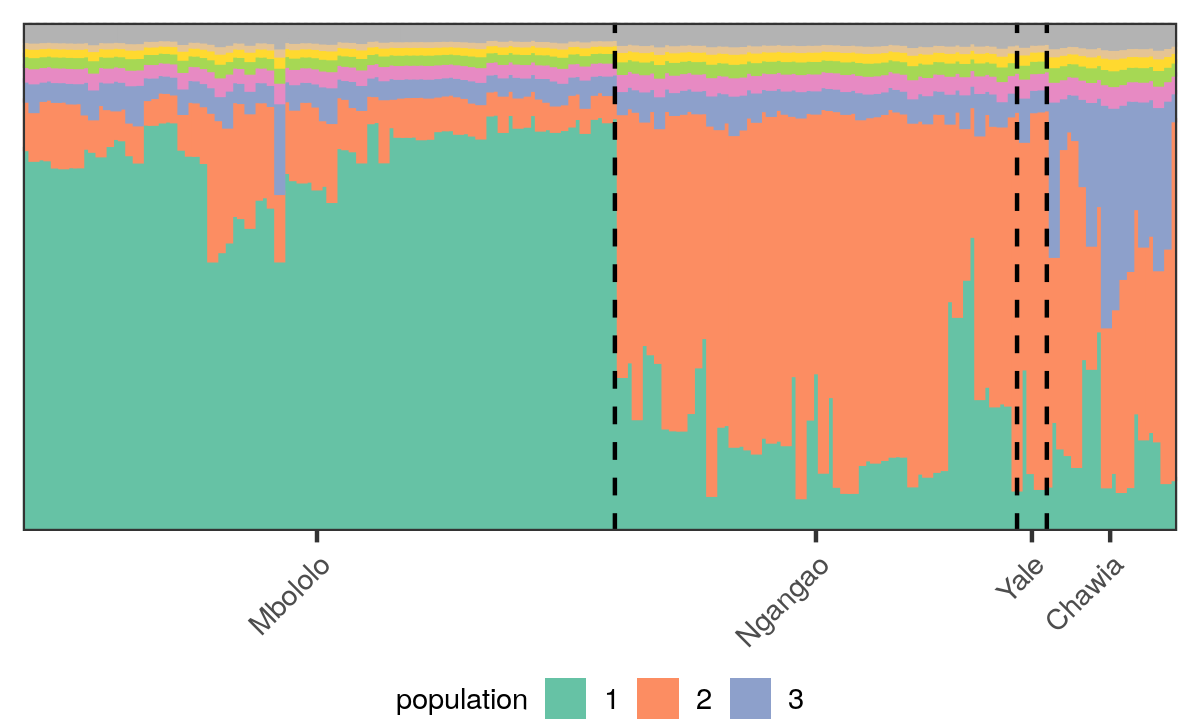
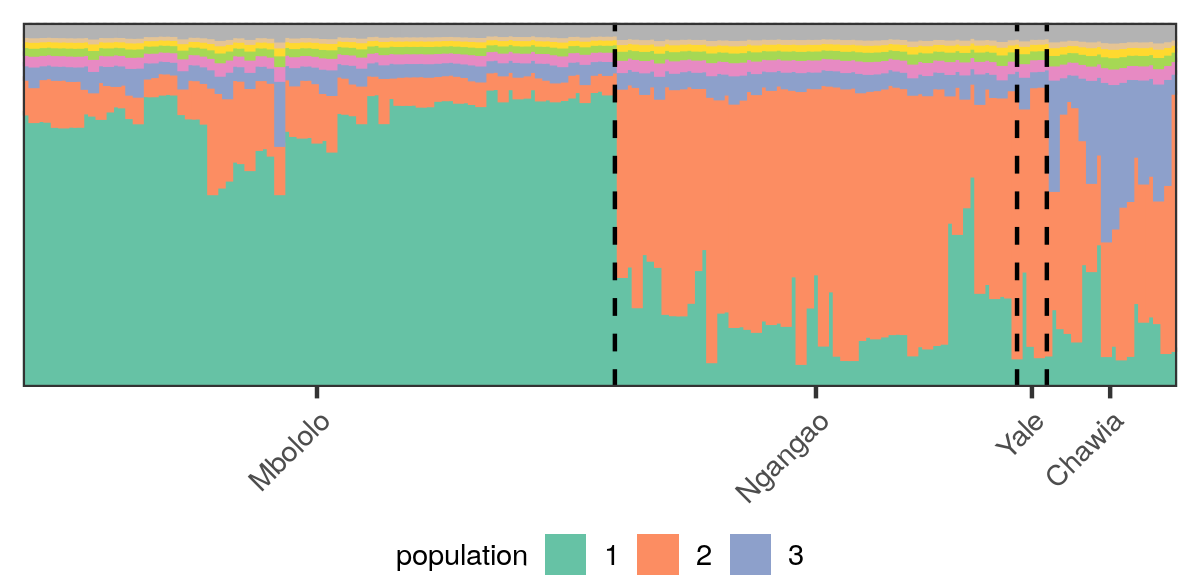
update structure plot

diff --git a/writing/journal_paper/structure_experiments.tex b/writing/journal_paper/structure_experiments.tex
@@ -10,7 +10,7 @@
 
 Our final data analysis example is an application of a Bayesian topic model to
 population genetics. We consider a publicly available dataset from
-\citet{galbusera:2000:thrush} that contains genotypes from 155 samples of an
+\citet{galbusera:2000:thrush} that contains genotypes from 155 individuals of an
 endangered bird species, the Taita thrush. Individuals were collected from four
 regions in southeast Kenya (Chawia, Mbololo, Ngangao, Yale), and each individual
 was genotyped at seven micro-satellite loci. The four regions were once part of
@@ -18,9 +18,7 @@ a cohesive cloud forest that has since been fragmented by human development. For
 this endangered bird species, understanding the degree to which populations have
 grown genetically distinct is important for conservation efforts: well-separated
 populations with little genetic diversity are particularly at risk of
-extinction.  The goal of the analysis is to identify the presence of latent
-populations, from which one can infer the population of origin for specific
-loci, and estimate the degree to which populations are admixed in each
+extinction.  The goal of the analysis is to infer the population of origin for specific loci and estimate the degree to which populations are admixed in each
 individual.
 
 
@@ -88,7 +86,7 @@ logit-normal. See \appref{app_structure} for further details.
 \begin{knitrout}
 \definecolor{shadecolor}{rgb}{0.969, 0.969, 0.969}\color{fgcolor}\begin{figure}[!h]
 
-{\centering \includegraphics[width=0.980\linewidth,height=0.588\linewidth]{figure/stru_init_fit-1} 
+{\centering \includegraphics[width=0.980\linewidth,height=0.470\linewidth]{figure/stru_init_fit-1} 
 
 }
 
@@ -115,24 +113,29 @@ logit-normal. See \appref{app_structure} for further details.
 \subsubsection*{Quantity of interest}
 
 The posterior quantities of interest in this application
-are the individual admixtures $\pi_\n$. 
-\figref{stru_init_fit} plots the inferred admixtures $\pi_\n$ for all
-individuals $\n$ under a GEM prior with parameter $\alpha_0 = 3$.  
-The choice of $\alpha_0 = 3$ corresponds to roughly four distinct populations {\em a priori}, motivated by the fact that the individuals come from four geographic regions. 
+are the admixtures $\pi_\n$. 
+\figref{stru_init_fit} plots the inferred admixtures
+$\expect{\q}{\pi_\n}$ for all individuals $\n$. 
+The approximate posterior was fit to a model with a
+GEM prior at parameter $\alpha_0 = 3$.  
+The choice of $\alpha_0 = 3$ corresponds to roughly four distinct populations 
+{\em a priori} (\eqref{prior_num_clusters}), 
+motivated by the fact that the individuals come from four geographic regions. 
 We will examine the robustness of the inferred admixtures to the prior below. 
 
-In the posterior at $\alpha_0$, there
+In the approximate posterior at $\alpha_0$, there
 appear to be three dominant latent populations, which we arbitrarily label as
 populations 1, 2, and 3 (\figref{stru_init_fit}). 
-The inferred admixture proportions generally correspond with the geographic regions from which each individuals are sampled. 
+The inferred admixture proportions generally correspond with geographic regions:
+Mbololo individuals are primarily population 1; 
+Ngangao individuals are primarily population 2; 
+and Chawia individuals are a mixture of populations 1, 2, and 3. 
 
 Notably, outlying admixtures among individuals from the same geographic region provide clues into the historical migration patterns of this species. 
 For example,
-while individuals collected from the Mbololo region are inferred to be admixed
-primarily with population 1, several individuals from this region have
-abnormally large admixture proportions of population 2. Conversely, while
-individuals collected from the Ngangao region are admixed primarily with
-population 2, a few of these individuals have abnormally large admixture
+while Mbololo individuals are dominantly population 1,
+several individuals have abnormally large admixture proportions of population 2. Conversely, while Ngangao individuals are dominantly population 2, 
+several individuals have abnormally large admixture
 proportions of population 1. This suggests that some migration has occurred
 between the Mbololo and Ngangao regions.
 
@@ -149,13 +152,14 @@ the average admixture proportion of population $\k$ in a set of
 individuals $\mathcal{N}$.
 
 Below, we present results on three variations of $\gadmix$, corresponding to 
-indididuals hightlighted as ``A," ``B", or ``C" in the top row of \figref{stru_func_sens}:
+individuals hightlighted as ``A," ``B", or ``C" 
+in the top row of \figref{stru_func_sens}:
 $\mathcal{N} = \{26, ..., 31\}$ and $k = 2$,
-corresponding to the six individuals from the Mbololo region with outlying proportions of population 2;
+corresponding to the six Mbololo individuals with outlying proportions of population 2;
 $\mathcal{N} = \{125, ..., 128\}$ and $k = 1$,
-corresponding to the four individuals from the Ngangao region with outlying proportions of population 1;
+corresponding to the four Ngangao individuals with outlying proportions of population 1;
 $\mathcal{N} = \{139, ..., 155\}$ and $k = 3$,
-corresponding to all individuals from the Chawia region.
+corresponding to all Chawia individuals.
 The first two posterior quantities relate to the inferred migration between
 the Mbololo and Ngangao regions. 
 In the last case, we are studying the robustness of having a third latent
@@ -190,10 +194,11 @@ conclusions about migration from Ngangao to Mbololo may be dependent on prior ch
      For individuals B,
      we examine the population 1 admixture
      For the individuals C, we examine the population 3 admixture.
-     (Left column) The worst-case negative perturbation with unit $L_\infty$-norm
+     (Left column) The worst-case negative perturbation with
+     $\norminf{\phi} = 1$
      in grey,
      plotted against the influence function in purple
-     (scaled to also have $L_\infty$ norm equal to 1).
+     (scaled such that $\norminf{\psi} = 1$).
     (Middle column) The effect of the perturbation on the prior density.
     (Right column) Effects on the inferred admixture]{Sensitivity of inferred admixtures for several outlying individuals.
      For individuals A,
@@ -201,10 +206,11 @@ conclusions about migration from Ngangao to Mbololo may be dependent on prior ch
      For individuals B,
      we examine the population 1 admixture
      For the individuals C, we examine the population 3 admixture.
-     (Left column) The worst-case negative perturbation with unit $L_\infty$-norm
+     (Left column) The worst-case negative perturbation with
+     $\norminf{\phi} = 1$
      in grey,
      plotted against the influence function in purple
-     (scaled to also have $L_\infty$ norm equal to 1).
+     (scaled such that $\norminf{\psi} = 1$).
     (Middle column) The effect of the perturbation on the prior density.
     (Right column) Effects on the inferred admixture. }\label{fig:stru_func_sens}
 \end{figure}
@@ -232,7 +238,9 @@ The admixture proportion of population 2 in individual $n = 25$
 dramatically increased after refitting with the perturbed prior $\p_1$;
 the linearized parameters failed to reproduce this change.
 For a more in depth discussion of the limitations of the linear approximation, 
-see \appref{app_structure_results}. 
+see \appref{app_structure_results}.
+
+\todo{need to highlight main takeaway: even though linear approx works less well, still can use influence function to guide where to refit. }
 
 
 \begin{knitrout}
